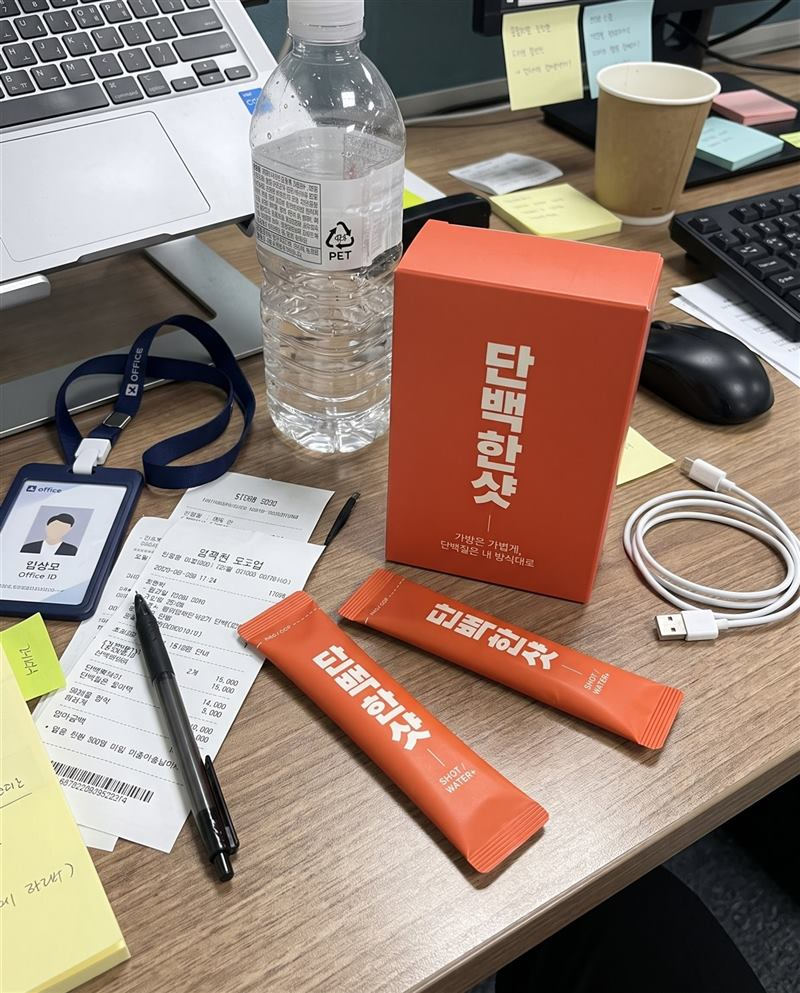
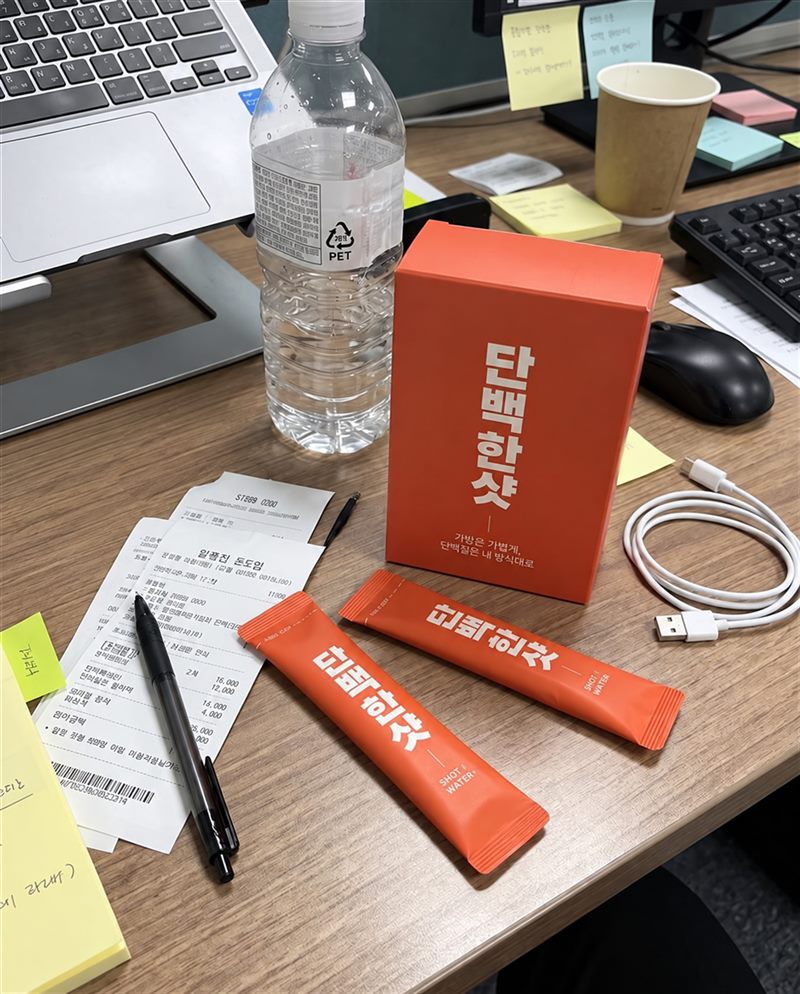
리뷰 영역 정리 및 B 사진 사원증 제거
B 리뷰 사진에서 사원증을 제거하고 A·B·C 메인 리뷰 카드만 남깁니다.

diff --git a/index.html b/index.html
@@ -14,7 +14,7 @@
 <section class="section" id="how"><div class="section-intro"><div><div class="eyebrow accent">02 / One shot, two ways</div><h2>하나의 샷,<br>두 가지 방식.</h2></div><p class="lead">오늘의 상황에 맞춰 골라보세요.<br>탭을 눌러 두 가지 방식을 확인할 수 있어요.</p></div><div class="ways"><div class="way-art" id="way-art"><img src="assets/product-stick.png" alt="단백한샷 스틱 제품" loading="lazy"><div class="glass" aria-hidden="true"></div></div><div class="way-copy"><div class="tabs" role="tablist" aria-label="섭취 방식"><button id="shot-tab" role="tab" aria-selected="true" aria-controls="way-panel" tabindex="0">01 SHOT</button><button id="water-tab" role="tab" aria-selected="false" aria-controls="way-panel" tabindex="-1">02 WATER+</button></div><div id="way-panel" role="tabpanel" aria-labelledby="shot-tab" tabindex="0"><div class="eyebrow accent" id="way-label">Open & enjoy</div><h3 id="way-title">뜯어서 그대로,<br>나의 SHOT.</h3><p id="way-desc">별도로 물에 희석하지 않고 파우치째 즐기는 방식이에요. 이동 중이거나 간단하게 챙기고 싶은 순간을 위한 선택이에요.</p></div><p class="note">출시 전 제품 콘셉트입니다. 섭취량·희석 비율·물의 온도 등은 최종 제품 안내를 기준으로 확인해 주세요.</p></div></div></section>
 <section class="section routine"><div class="eyebrow">03 / In your everyday</div><h2>출근 가방에서<br>운동 가방까지.</h2><p class="lead" style="color:#352c28">바쁜 일상 속, 나만의 단백질 루틴을 그려보세요.</p><div class="routine-grid"><article><b>09:00 / OFFICE</b><h3>출근하는 아침</h3><p>노트북과 다이어리를 챙기는 순간.<br>오늘의 운동 계획도 함께 챙겨요.</p></article><article><b>19:30 / WORKOUT</b><h3>퇴근 후 운동</h3><p>하루의 업무를 마치고 나를 위한 시간.<br>오늘은 SHOT, 내일은 WATER+.</p></article><article><b>YOUR OWN PACE</b><h3>내 방식대로, 꾸준히</h3><p>매일 같은 시간, 같은 방식일 필요 없이.<br>나의 생활에 어울리는 루틴을 찾아요.</p></article></div></section>
 <section class="section" id="nutrition" style="background:#eee7dc"><div class="nutrition"><div class="eyebrow accent">Nutrition / sample only</div><h2>한 포 속 정보를<br>한눈에 확인하세요.</h2><span class="sample">영양성분 전체가 임의로 만든 예시입니다. 실제 제품 수치가 아닙니다.</span><p class="lead">1포 40g 기준 · 열량 110kcal <span class="sample">가상 사양</span></p><table class="nutri-table"><thead><tr><th scope="col">영양성분</th><th scope="col">예시 함량 / 1포</th></tr></thead><tbody><tr><th scope="row">단백질</th><td>20g</td></tr><tr><th scope="row">탄수화물</th><td>6g</td></tr><tr><th scope="row">당류</th><td>2g</td></tr><tr><th scope="row">지방</th><td>0.7g</td></tr><tr><th scope="row">포화지방</th><td>0.3g</td></tr><tr><th scope="row">트랜스지방</th><td>0g</td></tr><tr><th scope="row">콜레스테롤</th><td>5mg</td></tr><tr><th scope="row">나트륨</th><td>120mg</td></tr></tbody></table><p class="review-subtitle">화면 구성을 확인하기 위한 가상 영양정보입니다. 실제 영양성분·원재료·알레르기 정보는 제품 검증 및 표시사항 확정 후 교체해야 합니다.</p></div></section>
-<section class="section" id="reviews"><div class="eyebrow accent">Review / illustrative</div><h2>나의 일상에서 만난<br>단백한샷.</h2><span class="sample">아래 평점과 후기 3건은 모두 창작 예시이며 실제 구매 후기가 아닙니다.</span><div class="review-summary"><strong>4.8<span style="font-size:18px;color:#999"> / 5</span></strong><div><div class="stars" style="margin:0">★★★★★</div><p class="review-subtitle">디자인용 예시 평점 · 예시 후기 3건<br>3개 후기의 평균을 산출한 수치가 아닙니다.</p></div></div>
+<section class="section" id="reviews" aria-label="메인 리뷰">
 <div class="review-grid"><article class="review"><img class="review-photo" src="assets/review-gym.jpg" alt="운동 가방 옆에 놓인 단백한샷 박스와 스틱" loading="lazy"><div class="review-body"><div class="meta"><span>가상 사용자 A · 연출 이미지</span><span>구성: 1박스</span></div><div class="stars">★★★★★</div><h3>운동 가방에 챙겨두기 편해 보여요.</h3><p>운동복과 물병을 넣고도 자리를 많이 차지하지 않는 스틱 형태라 좋아요. 퇴근 후 바로 운동하러 가는 날 가방 안에 한두 포 넣어두기 편할 것 같아요.</p></div></article><article class="review"><img class="review-photo" src="assets/review-office.jpg" alt="회사 책상 위 물병과 함께 놓인 단백한샷" loading="lazy"><div class="review-body"><div class="meta"><span>가상 사용자 B · 연출 이미지</span><span>구성: 2박스</span></div><div class="stars">★★★★★</div><h3>책상 위에 두고 가볍게 챙겨요.</h3><p>업무 중에는 물병과 함께 두었다가 상황에 맞춰 그대로 먹거나 물에 섞는 방식으로 즐길 수 있다는 점이 마음에 들어요. 바쁜 오후 루틴에 잘 어울려 보여요.</p></div></article><article class="review"><img class="review-photo" src="assets/review-home.jpg" alt="집 식탁 위에 놓인 단백한샷 패키지" loading="lazy"><div class="review-body"><div class="meta"><span>가상 사용자 C · 연출 이미지</span><span>구성: 1박스</span></div><div class="stars">★★★★☆</div><h3>집에서도 부담 없이 꺼내 먹기 좋아 보여요.</h3><p>머그컵과 노트 옆에 자연스럽게 둘 수 있는 깔끔한 패키지가 눈에 들어와요. 외출 전이나 하루를 정리하는 시간에 간편하게 챙기는 모습이 잘 그려져요.</p></div></article></div></section>
 <section class="section landing-offer" id="offer"><div><div class="eyebrow accent">START YOUR LIGHTER ROUTINE</div><h2>나에게 맞는 구성으로,<br>가볍게 시작해요.</h2><p class="lead">처음 만나는 단백한샷.<br>내 루틴에 맞는 구성을 골라보세요.</p><span class="sample">가격·수량·할인은 모두 가상 예시입니다.</span><img class="offer-photo" src="assets/product-box.png" alt="단백한샷 패키지 구성" loading="lazy"></div><div class="offer-panel"><span class="tag">첫 루틴 추천 · 가상 제안</span><h3>단백한샷 스타터</h3><p>1박스 14포 · SHOT / WATER+</p><div class="price"><del>39,000원</del><br><b>26%</b><strong>28,900원</strong></div><div class="shop-row"><span>배송 안내</span><span>3,000원 / 50,000원 이상 무료<br><small>시안용 예시 조건</small></span></div><label for="pack" class="eyebrow" style="display:block;margin-top:24px">나의 구성 선택</label><select id="pack" class="shop-select"><option value="28900">가볍게 시작 / 1박스 — 28,900원</option><option value="54900">함께 이어가기 / 2박스 — 54,900원</option><option value="79900">꾸준한 루틴 / 3박스 — 79,900원</option></select><div class="quantity"><span id="pack-label">단백한샷 1박스</span><div class="stepper"><button id="minus" aria-label="수량 줄이기">−</button><output id="qty" aria-live="polite">1</output><button id="plus" aria-label="수량 늘리기">+</button></div></div><div class="total"><span>예시 상품금액</span><strong id="total" aria-live="polite">28,900원</strong></div><button class="pill" id="buy">이 구성으로 시작하기 ↗</button><p class="draft">디자인 체험용 버튼입니다. 실제 결제·주문은 발생하지 않아요.</p></div></section><section class="section" style="background:#eee7dc" id="faq"><div class="faq"><div class="eyebrow accent">04 / Good to know</div><h2>궁금한 점을<br>먼저 확인하세요.</h2><details open><summary>단백한샷은 어떤 제품인가요?</summary><p>파우치째 그대로 섭취하거나 물에 희석해 마시는 두 가지 방식을 기획한 휴대형 프로틴 샷이에요. 현재 웹사이트는 출시 전 브랜드와 제품 콘셉트를 소개합니다.</p></details><details><summary>단백질 함량과 원재료는 어디서 확인하나요?</summary><p>이 페이지의 영양정보 표는 화면 구성을 위한 임의의 예시예요. 실제 제품의 영양성분과 원재료 정보가 확정되면 교체해야 합니다.</p></details><details><summary>물은 얼마나 넣어야 하나요?</summary><p>물의 양, 온도, 혼합 방법은 최종 제형 검증 후 안내할 예정이에요. 실제 섭취 시 제품 포장에 표시된 방법을 확인해 주세요.</p></details><details><summary>지금 구매할 수 있나요?</summary><p>현재는 가상 가격과 구성으로 꾸민 디자인 시안이에요. 실제 주문과 결제를 받지 않으며, 화면의 가격·할인·배송 조건은 예시입니다.</p></details><details><summary>보관 방법과 알레르기 정보는요?</summary><p>최종 제품 표시사항을 기준으로 보관 조건, 소비기한, 알레르기 유발 원재료를 안내할 예정이에요.</p></details></div></section>
 <section class="closing dark"><div class="eyebrow accent">Make room for your routine</div><h2>가볍게 챙기는<br><span class="accent">나의 다음 루틴.</span></h2><a class="pill light" href="#offer">단백한샷 살펴보기 ↗</a></section></main>
@@ -23,4 +23,5 @@
 <script>const shot=document.querySelector('#shot-tab'),water=document.querySelector('#water-tab');function select(mode){const isWater=mode==='water';shot.setAttribute('aria-selected',!isWater);water.setAttribute('aria-selected',isWater);shot.tabIndex=isWater?-1:0;water.tabIndex=isWater?0:-1;document.querySelector('#way-panel').setAttribute('aria-labelledby',isWater?'water-tab':'shot-tab');document.querySelector('#way-art').classList.toggle('water',isWater);document.querySelector('#way-label').textContent=isWater?'Mix & enjoy':'Open & enjoy';document.querySelector('#way-title').innerHTML=isWater?'물과 함께,<br>나의 WATER+.':'뜯어서 그대로,<br>나의 SHOT.';document.querySelector('#way-desc').textContent=isWater?'물에 희석해 음료로 즐기는 방식이에요. 물과 컵을 준비할 수 있는 순간, 내 취향에 맞는 루틴을 생각했어요.':'별도로 물에 희석하지 않고 파우치째 즐기는 방식이에요. 이동 중이거나 간단하게 챙기고 싶은 순간을 위한 선택이에요.'}shot.onclick=()=>select('shot');water.onclick=()=>select('water');[shot,water].forEach(el=>el.addEventListener('keydown',e=>{if(e.key==='ArrowRight'||e.key==='ArrowLeft'){e.preventDefault();const next=el===shot?water:shot;select(next===water?'water':'shot');next.focus()}}));document.querySelector('dialog').addEventListener('click',e=>{if(e.target===e.currentTarget){const r=e.currentTarget.getBoundingClientRect();if(e.clientX<r.left||e.clientX>r.right||e.clientY<r.top||e.clientY>r.bottom)e.currentTarget.close()}});
 let quantity=1;const pack=document.querySelector('#pack');function recalc(){document.querySelector('#qty').textContent=quantity;document.querySelector('#total').textContent=(Number(pack.value)*quantity).toLocaleString('ko-KR')+'원';document.querySelector('#pack-label').textContent='단백한샷 '+(pack.selectedIndex+1)+'박스'}document.querySelector('#minus').onclick=()=>{quantity=Math.max(1,quantity-1);recalc()};document.querySelector('#plus').onclick=()=>{quantity=Math.min(99,quantity+1);recalc()};pack.onchange=recalc;document.querySelectorAll('[data-img]').forEach(b=>b.onclick=()=>{document.querySelector('#main-product').src='assets/'+b.dataset.img;document.querySelectorAll('[data-img]').forEach(x=>x.classList.toggle('active',x===b))});function showDemo(title,text){document.querySelector('#dialog-title').textContent=title;document.querySelector('#product-dialog p').textContent=text;document.querySelector('#product-dialog').showModal()}document.querySelector('#buy').onclick=()=>showDemo('구매 화면 안내','실제 판매용 사이트에서는 이 버튼에 주문서와 결제를 연결해요. 지금은 디자인 시안으로 결제나 개인정보 입력을 받지 않습니다.');
 </script></body></html>
+
 
